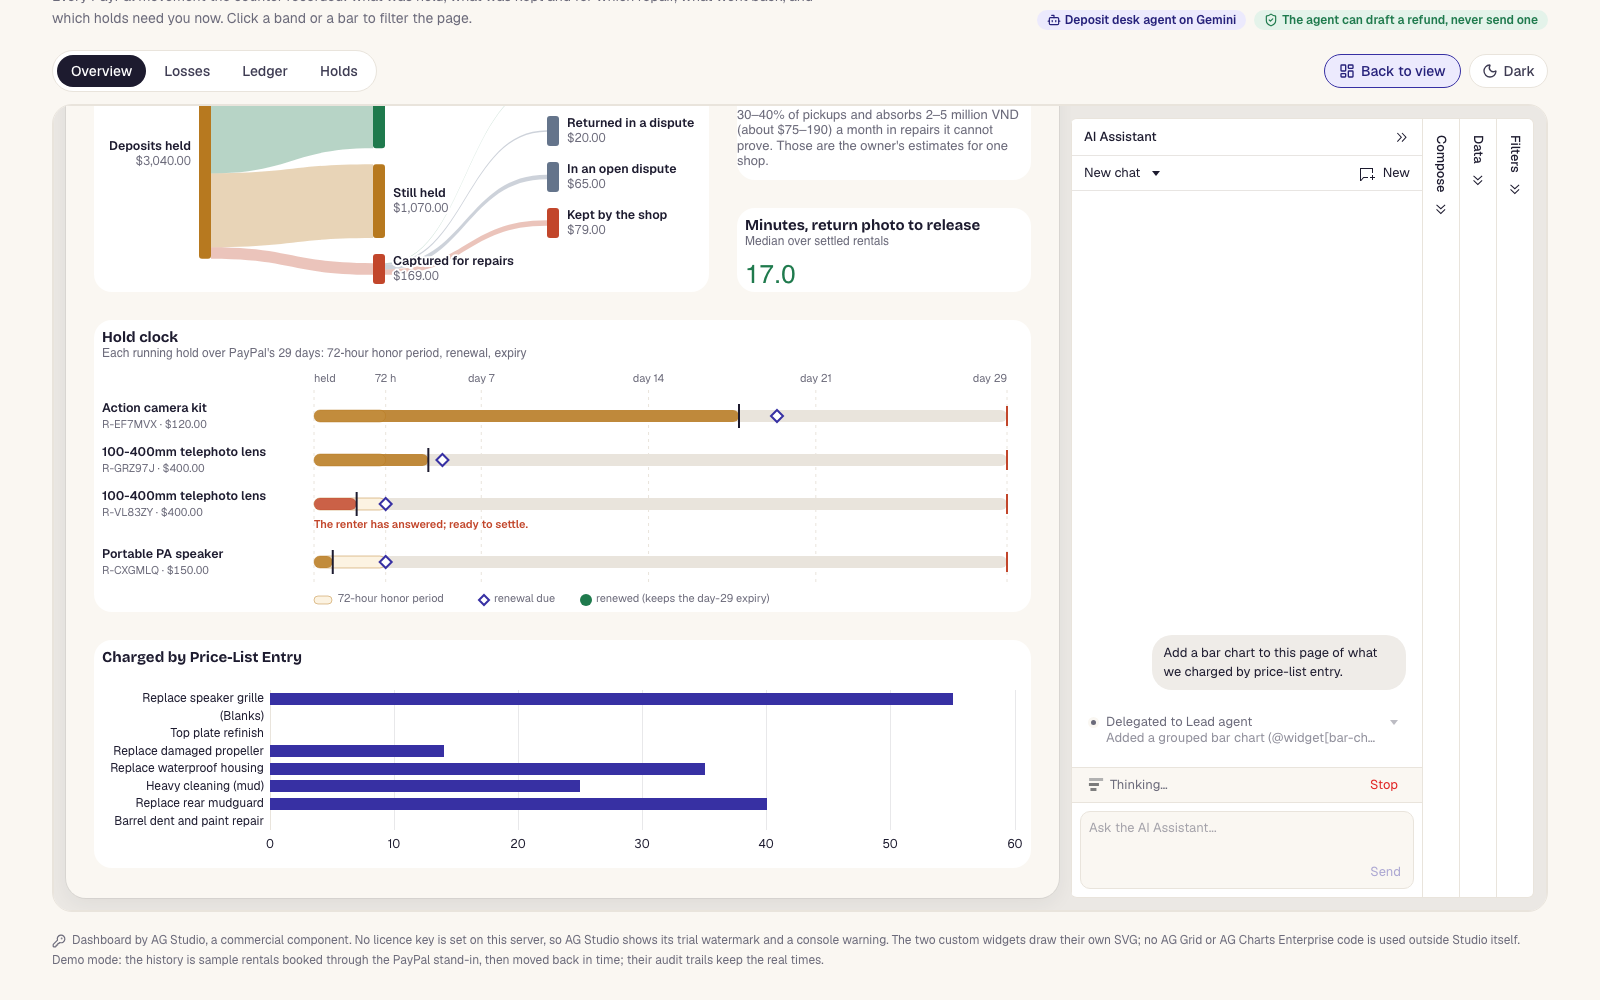
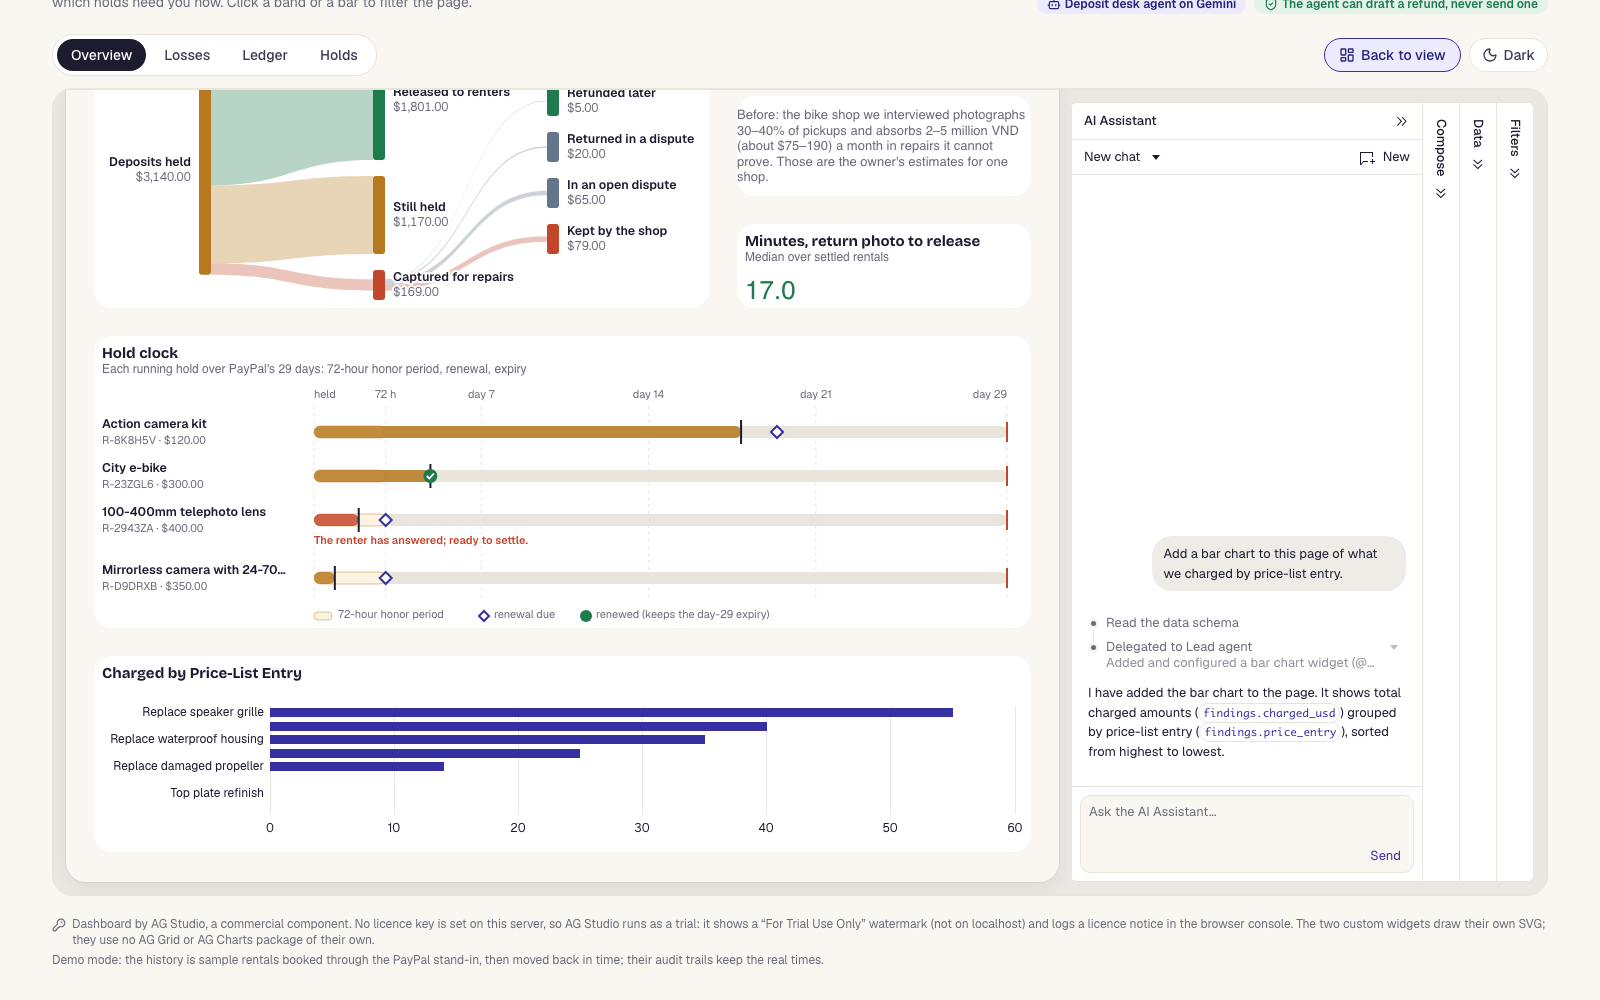
docs(insights): retake the screenshots after the review fixes
The refund screenshot showed the old starter drafting the same $5.00
the sample history had already refunded. The new ones come from a
production build in demo mode with the reworked history: a renewed
hold on the clock, labels that fit, the $15.00 PA speaker draft with
its signed link, and the chart request delegated to Studio's lead
agent. The seed tests' coverage is described as it now is.

diff --git a/docs/ag-studio.md b/docs/ag-studio.md
@@ -4,7 +4,7 @@ The counter has a third page, **Insights** (`/shop/insights`), next to Rentals a
 
 The bike shop we interviewed absorbs 2 to 5 million VND (about $75 to $190) a month in repairs it cannot prove and photographs only 30 to 40 percent of pickups (the owner's own estimates, for one shop). The dashboard shows the same two things for a Handback shop: every kept dollar next to the price-list entry and the renter's answer behind it, and the share of pickups with a photo on record.
 
-![The Overview page in demo mode: five KPIs, the deposit flow from held to released, captured, refunded, disputed and kept, and the hold clock with four running holds](images/insights-overview.png)
+![The Overview page in demo mode: five KPIs, the deposit flow from held to released, captured, refunded, disputed and kept, and the hold clock with four running holds, one of them renewed](images/insights-overview.png)
 
 <sub>Demo mode on localhost, with the sample history described below.</sub>
 
@@ -86,7 +86,7 @@ flowchart LR
 
 ![Edit mode with the chat panel: the deposit desk delegated a chart request to Studio's lead agent, and a grouped bar chart of charges by price-list entry was added to the page](images/insights-agent-chart.png)
 
-![The deposit desk drafted a $5.00 refund: the card says it was not sent and links to the rental page, where the form is filled in for a person to send](images/insights-agent-refund.png)
+![The deposit desk drafted a $15.00 refund on the PA speaker rental: the card says it was not sent and links to the rental page, where the form is filled in for a person to send](images/insights-agent-refund.png)
 
 ### Guardrails
 
@@ -102,7 +102,7 @@ flowchart LR
 
 In demo mode, the first visit books twelve sample rentals through the real service, once per database (`lib/insights/seed.ts`): returns settled with damage, two clean returns, a charge the renter questioned and staff waived, a partial refund, a PayPal dispute the shop lost and one still open, a booking cancelled and refunded in full, a renter who answered and can be settled, and three holds still running, one of them renewed. The nightly demo reset seeds the counter, the schedule's two weeks, then this history, in that order.
 
-A real booking cannot start in the past, so each plan is booked 99 days ahead, where no other seed and no test books, walked through its story there (the inspections replay the recorded Gemini replies even when a key is set), and then moved to its days onto a unit that is free for them as the timeline draws them, and for its repair block after them. A damaged return is settled on a unit that no booking holds today, because the schedule agent blocks the unit from the settlement day; the block then moves back with the rental. The PayPal stand-in's holds move back with the database's, so the hourly renewal sees their real age; the seed runs it for the hold that is due, which is how one hold shows as renewed. The schedule's seed rechecks its own moved-back rentals the same way. Running holds use items with spare units and end within three days, so the counter's and the schedule's sample bookings still find units whichever seed runs first; tests run the seeds in every order and check that all of them seed and that nothing shares a unit. A plan that fails part way is undone: its hold voided on the stand-in and its rows deleted. Their audit trails keep the real times. The seed runs only in demo mode, because it books through the PayPal stand-in.
+A real booking cannot start in the past, so each plan is booked 99 days ahead, where no other seed and no test books, walked through its story there (the inspections replay the recorded Gemini replies even when a key is set), and then moved to its days onto a unit that is free for them as the timeline draws them, and for its repair block after them. A damaged return is settled on a unit that no booking holds today, because the schedule agent blocks the unit from the settlement day; the block then moves back with the rental. The PayPal stand-in's holds move back with the database's, so the hourly renewal sees their real age; the seed runs it for the hold that is due, which is how one hold shows as renewed. The schedule's seed rechecks its own moved-back rentals the same way. Running holds use items with spare units and end within three days, so the counter's and the schedule's sample bookings still find units whichever seed runs first; tests run the dashboard's seed before and after the schedule's, with and without the counter's, and check that all of them seed and that nothing shares a unit. A plan that fails part way is undone: its hold voided on the stand-in and its rows deleted. Their audit trails keep the real times. The seed runs only in demo mode, because it books through the PayPal stand-in.
 
 ## Tests
 
@@ -110,7 +110,7 @@ A real booking cannot start in the past, so each plan is booked 99 days ahead, w
 - `lib/insights/sankey.test.ts`: depth columns, money conserved through nodes, bands stacked without overlap, minimum node heights, ordering and merging.
 - `lib/insights/gemini.test.ts`: schema conversion, wrapping non-object tool parameters, history and tool-call mapping, signatures and the placeholder, tool choice and JSON output, refused shapes, reply mapping, cut-off and blocked turns.
 - `app/api/insights/routes.test.ts`: both routes staff only; the 503 without a key and the 403 on an open counter from another machine; no key in replies or errors; turns counted per address whatever cookie is sent; bodies and parts larger than Studio's refused before Gemini; the answer cap; the token budget; unknown tools and bad arguments refused; the tools write nothing (row counts and the PayPal stand-in's state unchanged) and name the renter by first name; a draft held to what is left after a refund, refused during an open dispute and before settling, signed, and flagged when it repeats a refund.
-- `lib/insights/seed.test.ts`, `lib/insights/seed-failure.test.ts`: the counter, schedule and dashboard seeds in every order and through the nightly reset, with all twelve plans seeded, the schedule's count unchanged and no unit shared on a day; the stand-in's clock and the renewal; recorded replies with a key; a failed plan undone.
+- `lib/insights/seed.test.ts`, `lib/insights/seed-failure.test.ts`: the dashboard's seed before the schedule's (alone and after the counter's) and after it (the nightly reset), with all twelve plans seeded, the schedule's count unchanged and no unit shared on a day; the stand-in's clock and the renewal; recorded replies with a key; a failed plan undone.
 - `lib/insights/draft-link.test.ts`, `components/refund-form.test.ts`, `lib/insights/agent-tools.test.ts`: signed draft links, the refund form filled in from a draft, and `explain_rental` agreeing with the dashboard.
 - `e2e/insights.spec.ts` (demo mode): the KPIs and both custom widgets draw, a click on the deposit flow filters the page, and the Ledger and Holds pages open.
 - `e2e/insights-agent.spec.ts` (demo mode): the deposit desk in the browser, through Studio's chat panel and harness, the adapter, the turn route and `holds_needing_attention` on the server, ending on an answer that read the tool's result. The end-to-end server sets `INSIGHTS_AGENT_SCRIPT=e2e`, which answers each turn from a fixed script (`scriptedTurn`) instead of Gemini; it is for that server only.
